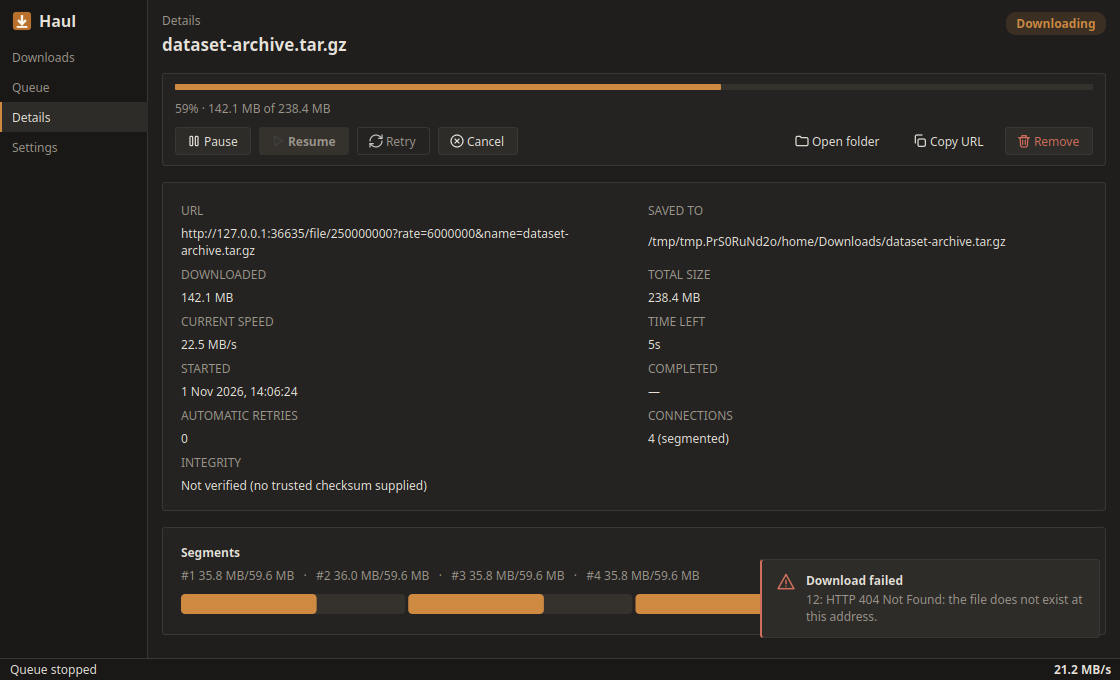
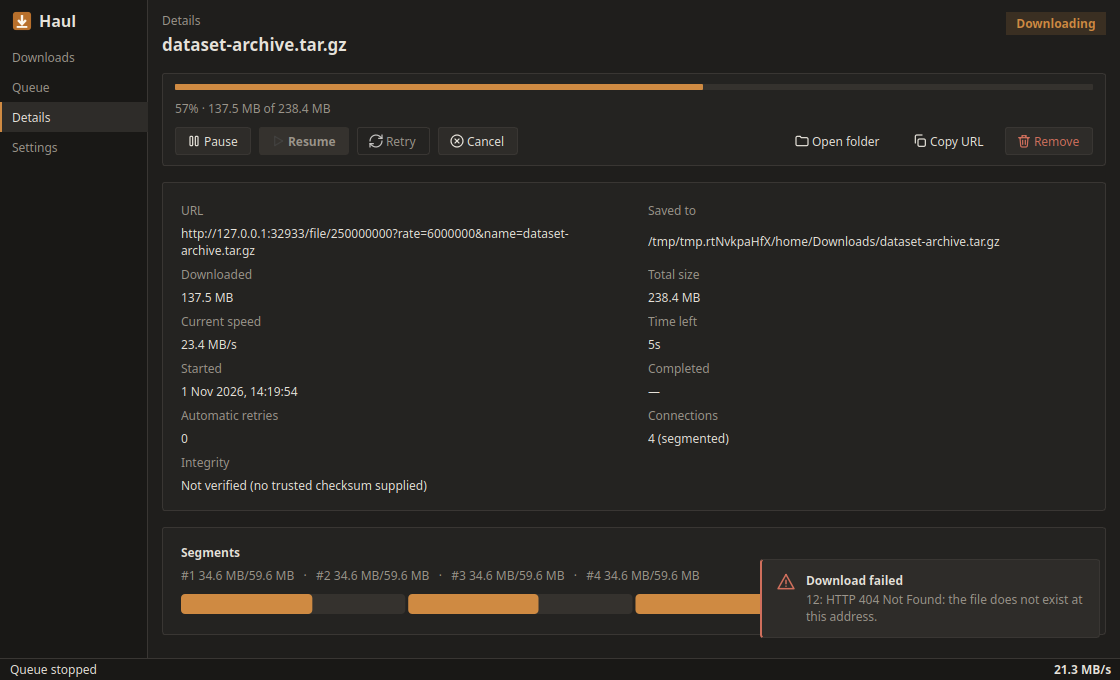
fix(ui): drop all-caps field labels and the pill badge on the Details page

diff --git a/src/ui/Widgets.cpp b/src/ui/Widgets.cpp
@@ -169,7 +169,7 @@ void StatusBadge::setState(TaskState state, const QString &text)
     QColor background = color;
     background.setAlpha(40);
     setText(text.isEmpty() ? stateLabel(state) : text);
-    setStyleSheet(QStringLiteral("QLabel { color: %1; background: rgba(%2,%3,%4,%5); border-radius: 10px;"
+    setStyleSheet(QStringLiteral("QLabel { color: %1; background: rgba(%2,%3,%4,%5); border-radius: 0;"
                                  " padding: 3px 10px; font-weight: 600; font-size: 9pt; }")
                       .arg(color.name()).arg(background.red()).arg(background.green())
                       .arg(background.blue()).arg(background.alpha()));

diff --git a/src/ui/DownloadDetailsPage.cpp b/src/ui/DownloadDetailsPage.cpp
@@ -25,7 +25,7 @@ namespace {
 
 QLabel *addField(QGridLayout *grid, int row, int column, const QString &caption, QWidget *parent)
 {
-    grid->addWidget(makeLabel(caption.toUpper(), QStringLiteral("caption"), parent), row * 2, column);
+    grid->addWidget(makeLabel(caption, QStringLiteral("caption"), parent), row * 2, column);
     QLabel *value = makeLabel(QStringLiteral("—"), QStringLiteral("value"), parent);
     value->setTextInteractionFlags(Qt::TextSelectableByMouse);
     value->setWordWrap(true);
